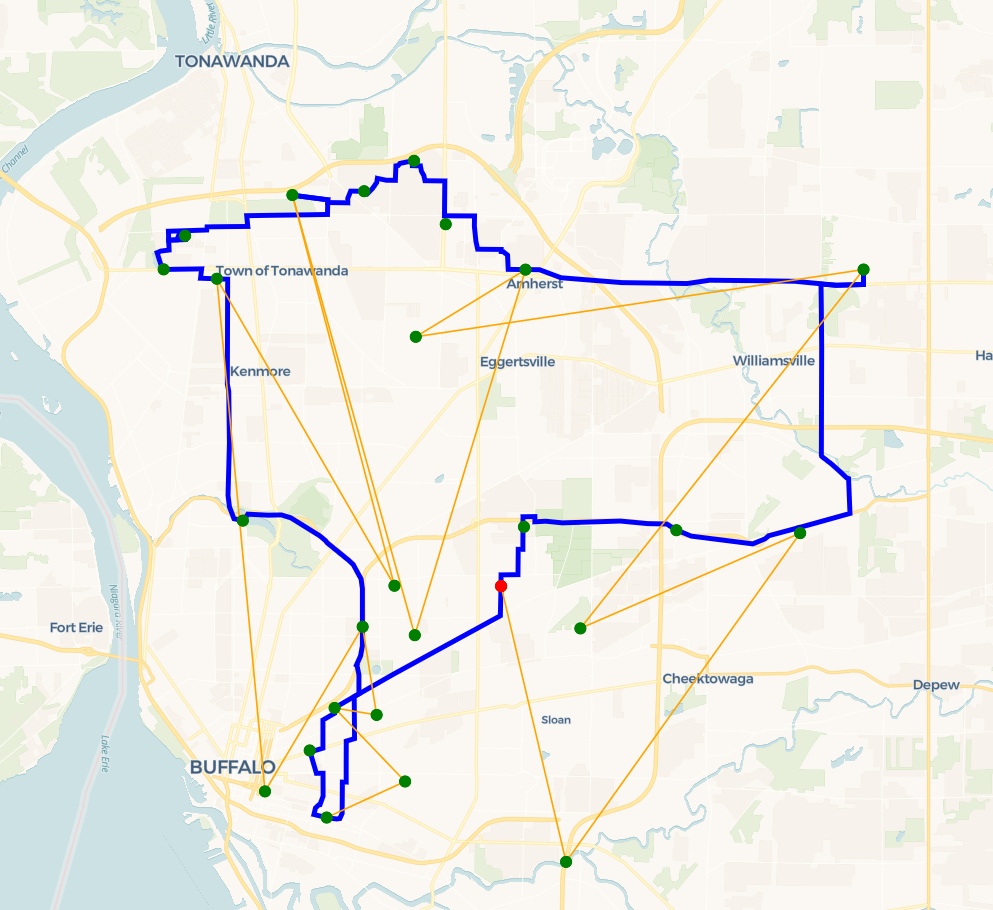
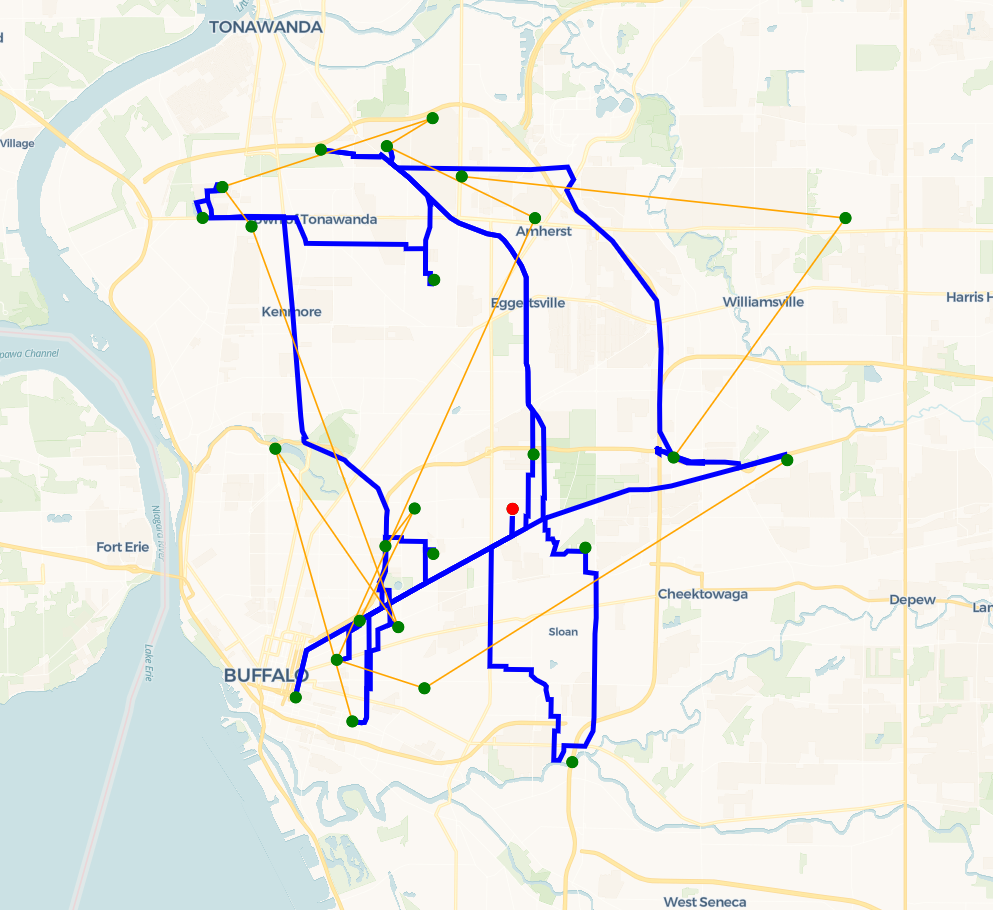
update cp_aco img

diff --git a/algorithms/cp_aco.py b/algorithms/cp_aco.py
@@ -18,7 +18,7 @@ drone_capacity = 5.0
 truck_velocity = 11.2
 truck_service_time = 30
 
-maxIteration = 2000
+maxIteration = 20000
 
 # ACO hyperparameters
 num_ant = 10
@@ -196,6 +196,10 @@ def cp_aco(numnodes, parcel_weight, delta_T, delta_D):
                     
                     # convert to the probs
                     p_ijk = np.array(p_ijk)
+
+                    if sum(p_ijk) == 0:
+                        continue
+                    
                     p_ijk = p_ijk / sum(p_ijk)
 
                     # choose the tour
@@ -251,11 +255,13 @@ def cp_aco(numnodes, parcel_weight, delta_T, delta_D):
         # Print at each iteration
         # print(f'Iteration {iter}: Length of Elite Archive: {len(elite_archive)} \t Sampled solution: {random.choice(elite_archive).fitness}')
 
-    sampled_solution = random.choice(elite_archive)
-    returned_truck_route = sampled_solution.truck_route
-    returned_truck_time = sampled_solution.truck_time
-    returned_drone_route = sampled_solution.drone_routes
-    return_timespan = sampled_solution.fitness
+    best_solution = min(elite_archive, key=lambda sol: sol.fitness)
+
+    returned_truck_route = best_solution.truck_route
+    returned_truck_time = best_solution.truck_time
+    returned_drone_route = best_solution.drone_routes
+    return_timespan = best_solution.fitness
+
 
     return returned_truck_route, returned_truck_time, returned_drone_route, return_timespan
                 

diff --git a/main.py b/main.py
@@ -5,7 +5,7 @@ import argparse
 from algorithms.fstsp_heuristic import fstsp_heuristic
 from algorithms.cp_aco import cp_aco
 from utils import process_location_data
-# from plot import plot_map
+from plot import plot_map
 
 if __name__ == "__main__":
 
@@ -43,4 +43,4 @@ if __name__ == "__main__":
     print(f'\n\nNumber of drone customer: {len(drone_routes)} \nNumber of truck customer: {len(truck_route)-2}')
 
     # Plot
-    # plot_map(locations, truck_route, drone_routes)
+    plot_map(locations, truck_route, drone_routes)
